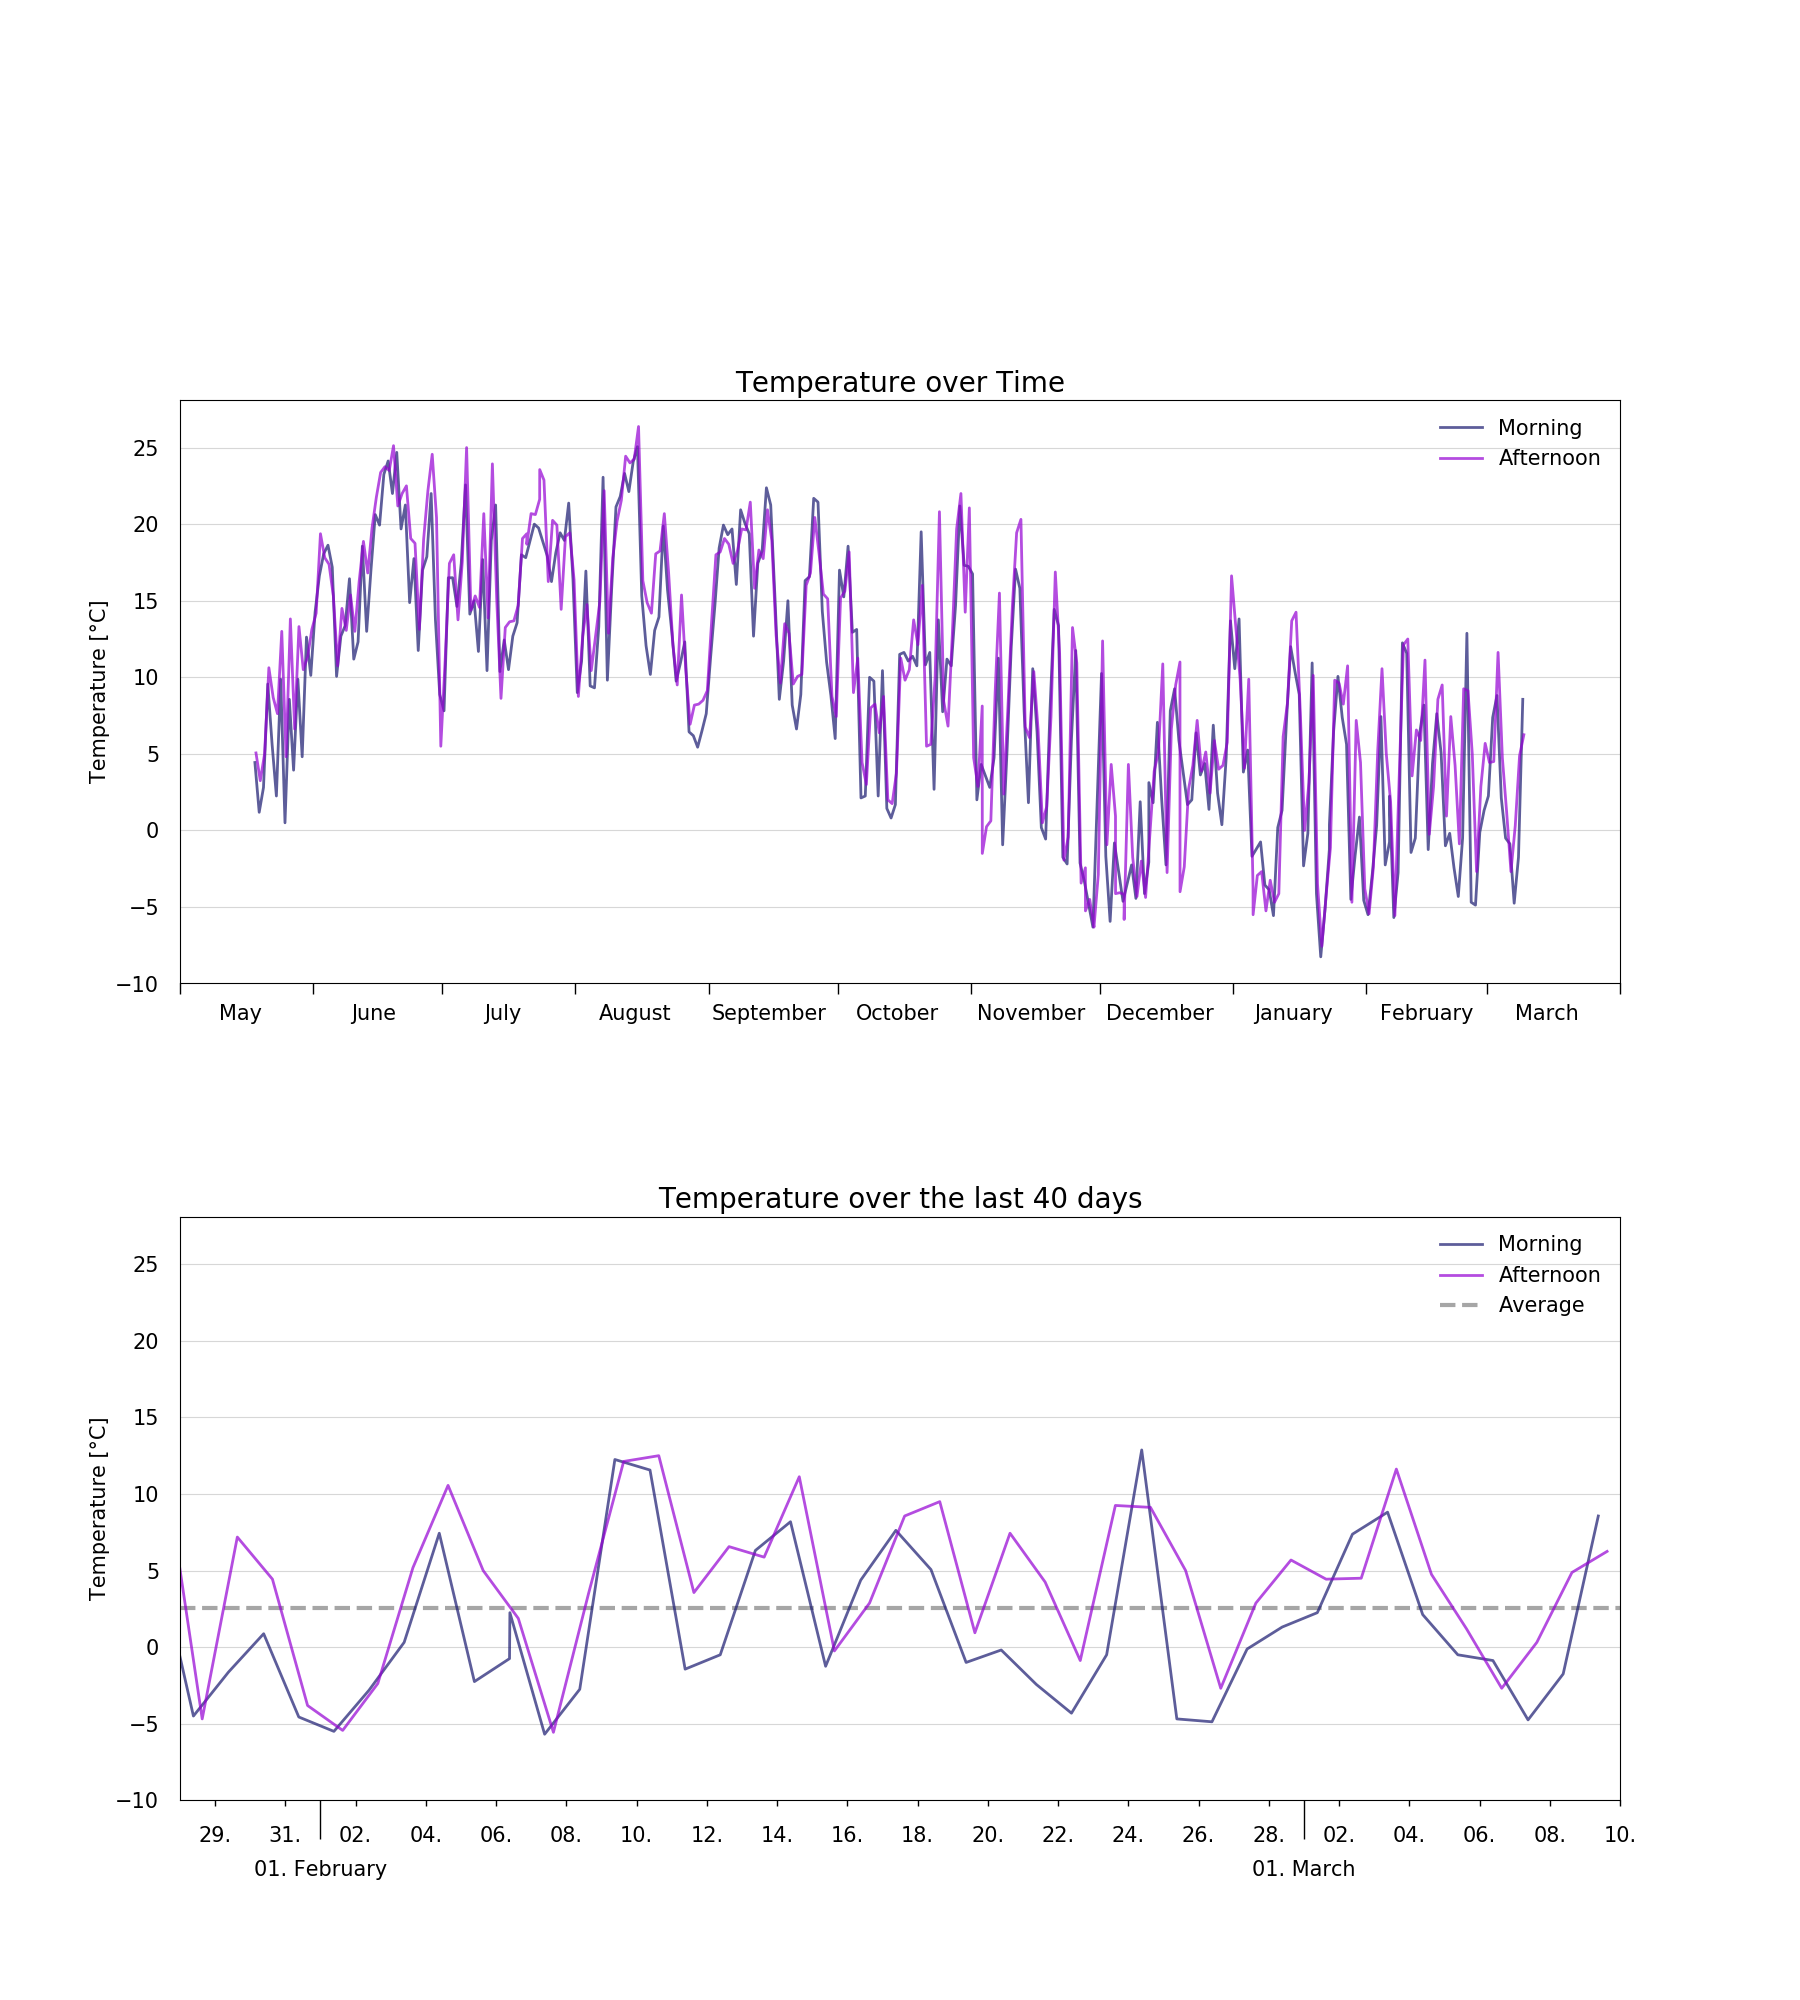
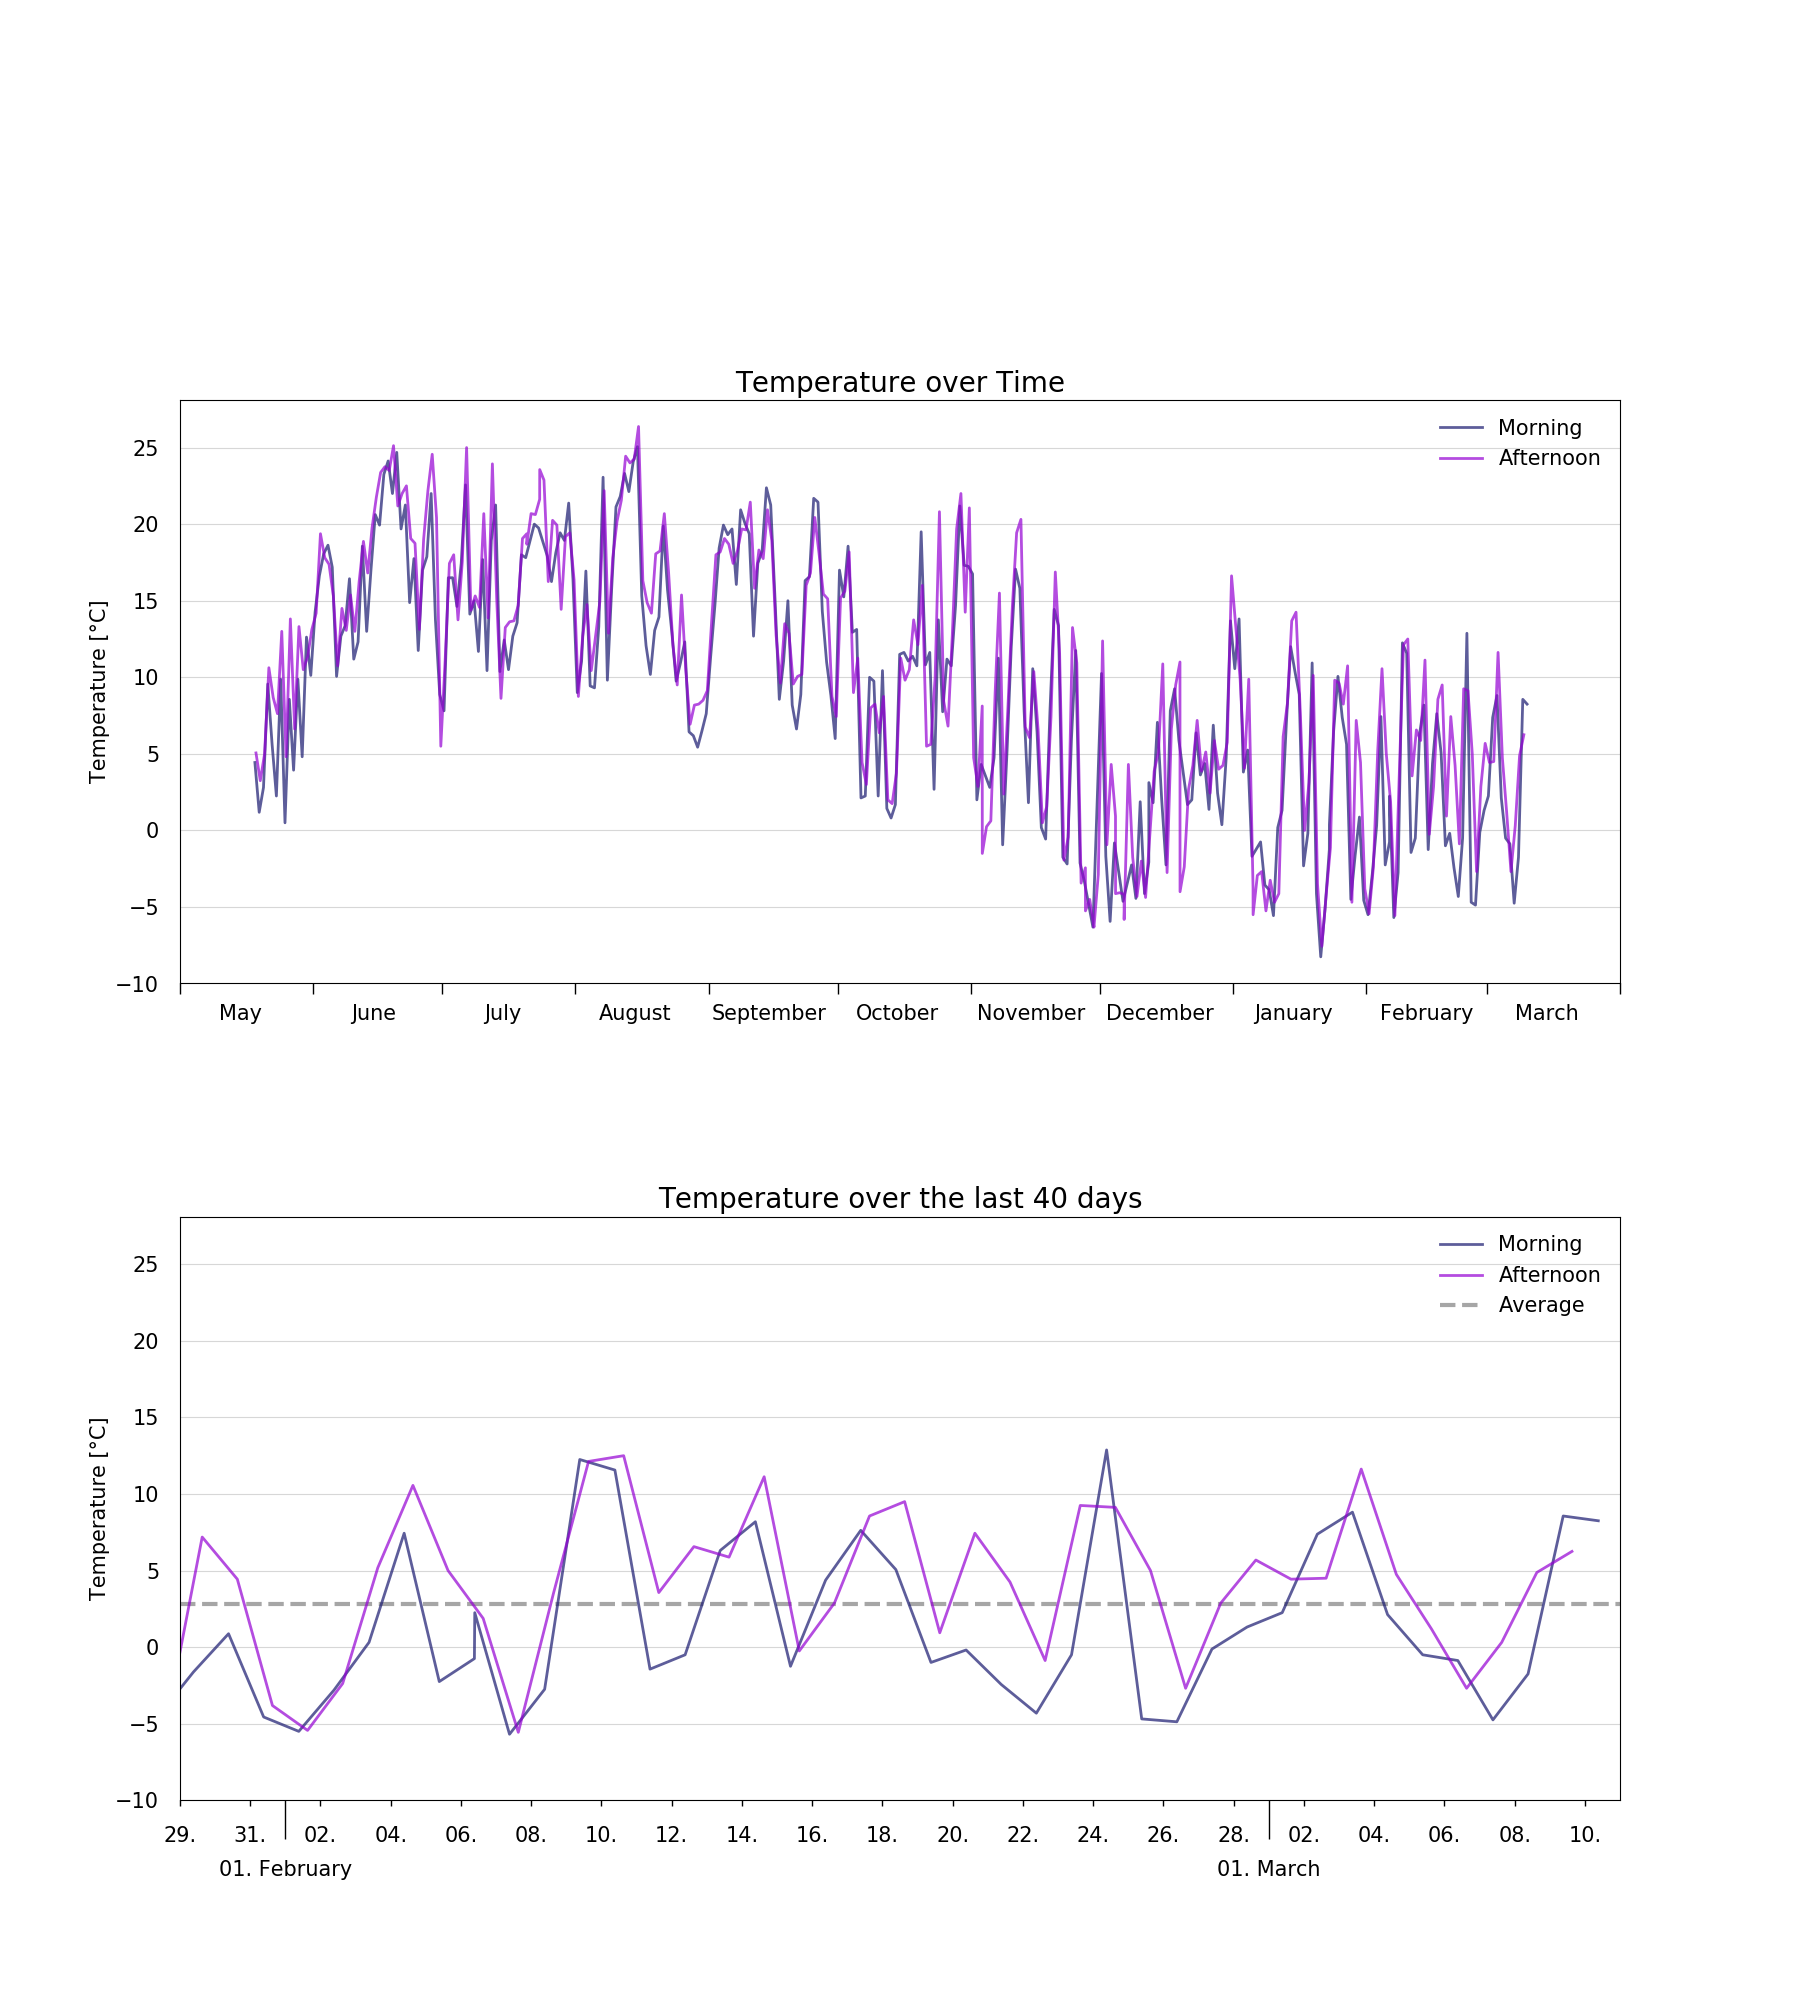
I'm a bot beep boop

diff --git a/resources/huette.md b/resources/huette.md
@@ -6,13 +6,13 @@ image: '/assets/img/'
 description: 'Live image from the Austrian alps'
 twitter_text: ' '
 ---
-## Latest image from 09 March 2022 at 15:11
+## Latest image from 10 March 2022 at  9:11
 <div class="huette">
   <div class="huette-image">
     <img src="{{ "/assets/img/huette.jpg" | prepend: site.baseurl }}">
   </div>
   <div class="huette-text">
-        <h2>Current Temperature: 6.25°C</h2>
+        <h2>Current Temperature: 8.25°C</h2>
         <p>A solar powered raspberry pi left alone in the wild is sending daily images and temperature data to this website. It should give you an impression about the current weather in the "Brixental".</p>
 
   </div>

diff --git a/rpi-script/huette.md b/rpi-script/huette.md
@@ -6,13 +6,13 @@ image: '/assets/img/'
 description: 'Live image from the Austrian alps'
 twitter_text: ' '
 ---
-## Latest image from 09 March 2022 at 15:11
+## Latest image from 10 March 2022 at  9:11
 <div class="huette">
   <div class="huette-image">
     <img src="{{ "/assets/img/huette.jpg" | prepend: site.baseurl }}">
   </div>
   <div class="huette-text">
-        <h2>Current Temperature: 6.25°C</h2>
+        <h2>Current Temperature: 8.25°C</h2>
         <p>A solar powered raspberry pi left alone in the wild is sending daily images and temperature data to this website. It should give you an impression about the current weather in the "Brixental".</p>
 
   </div>
